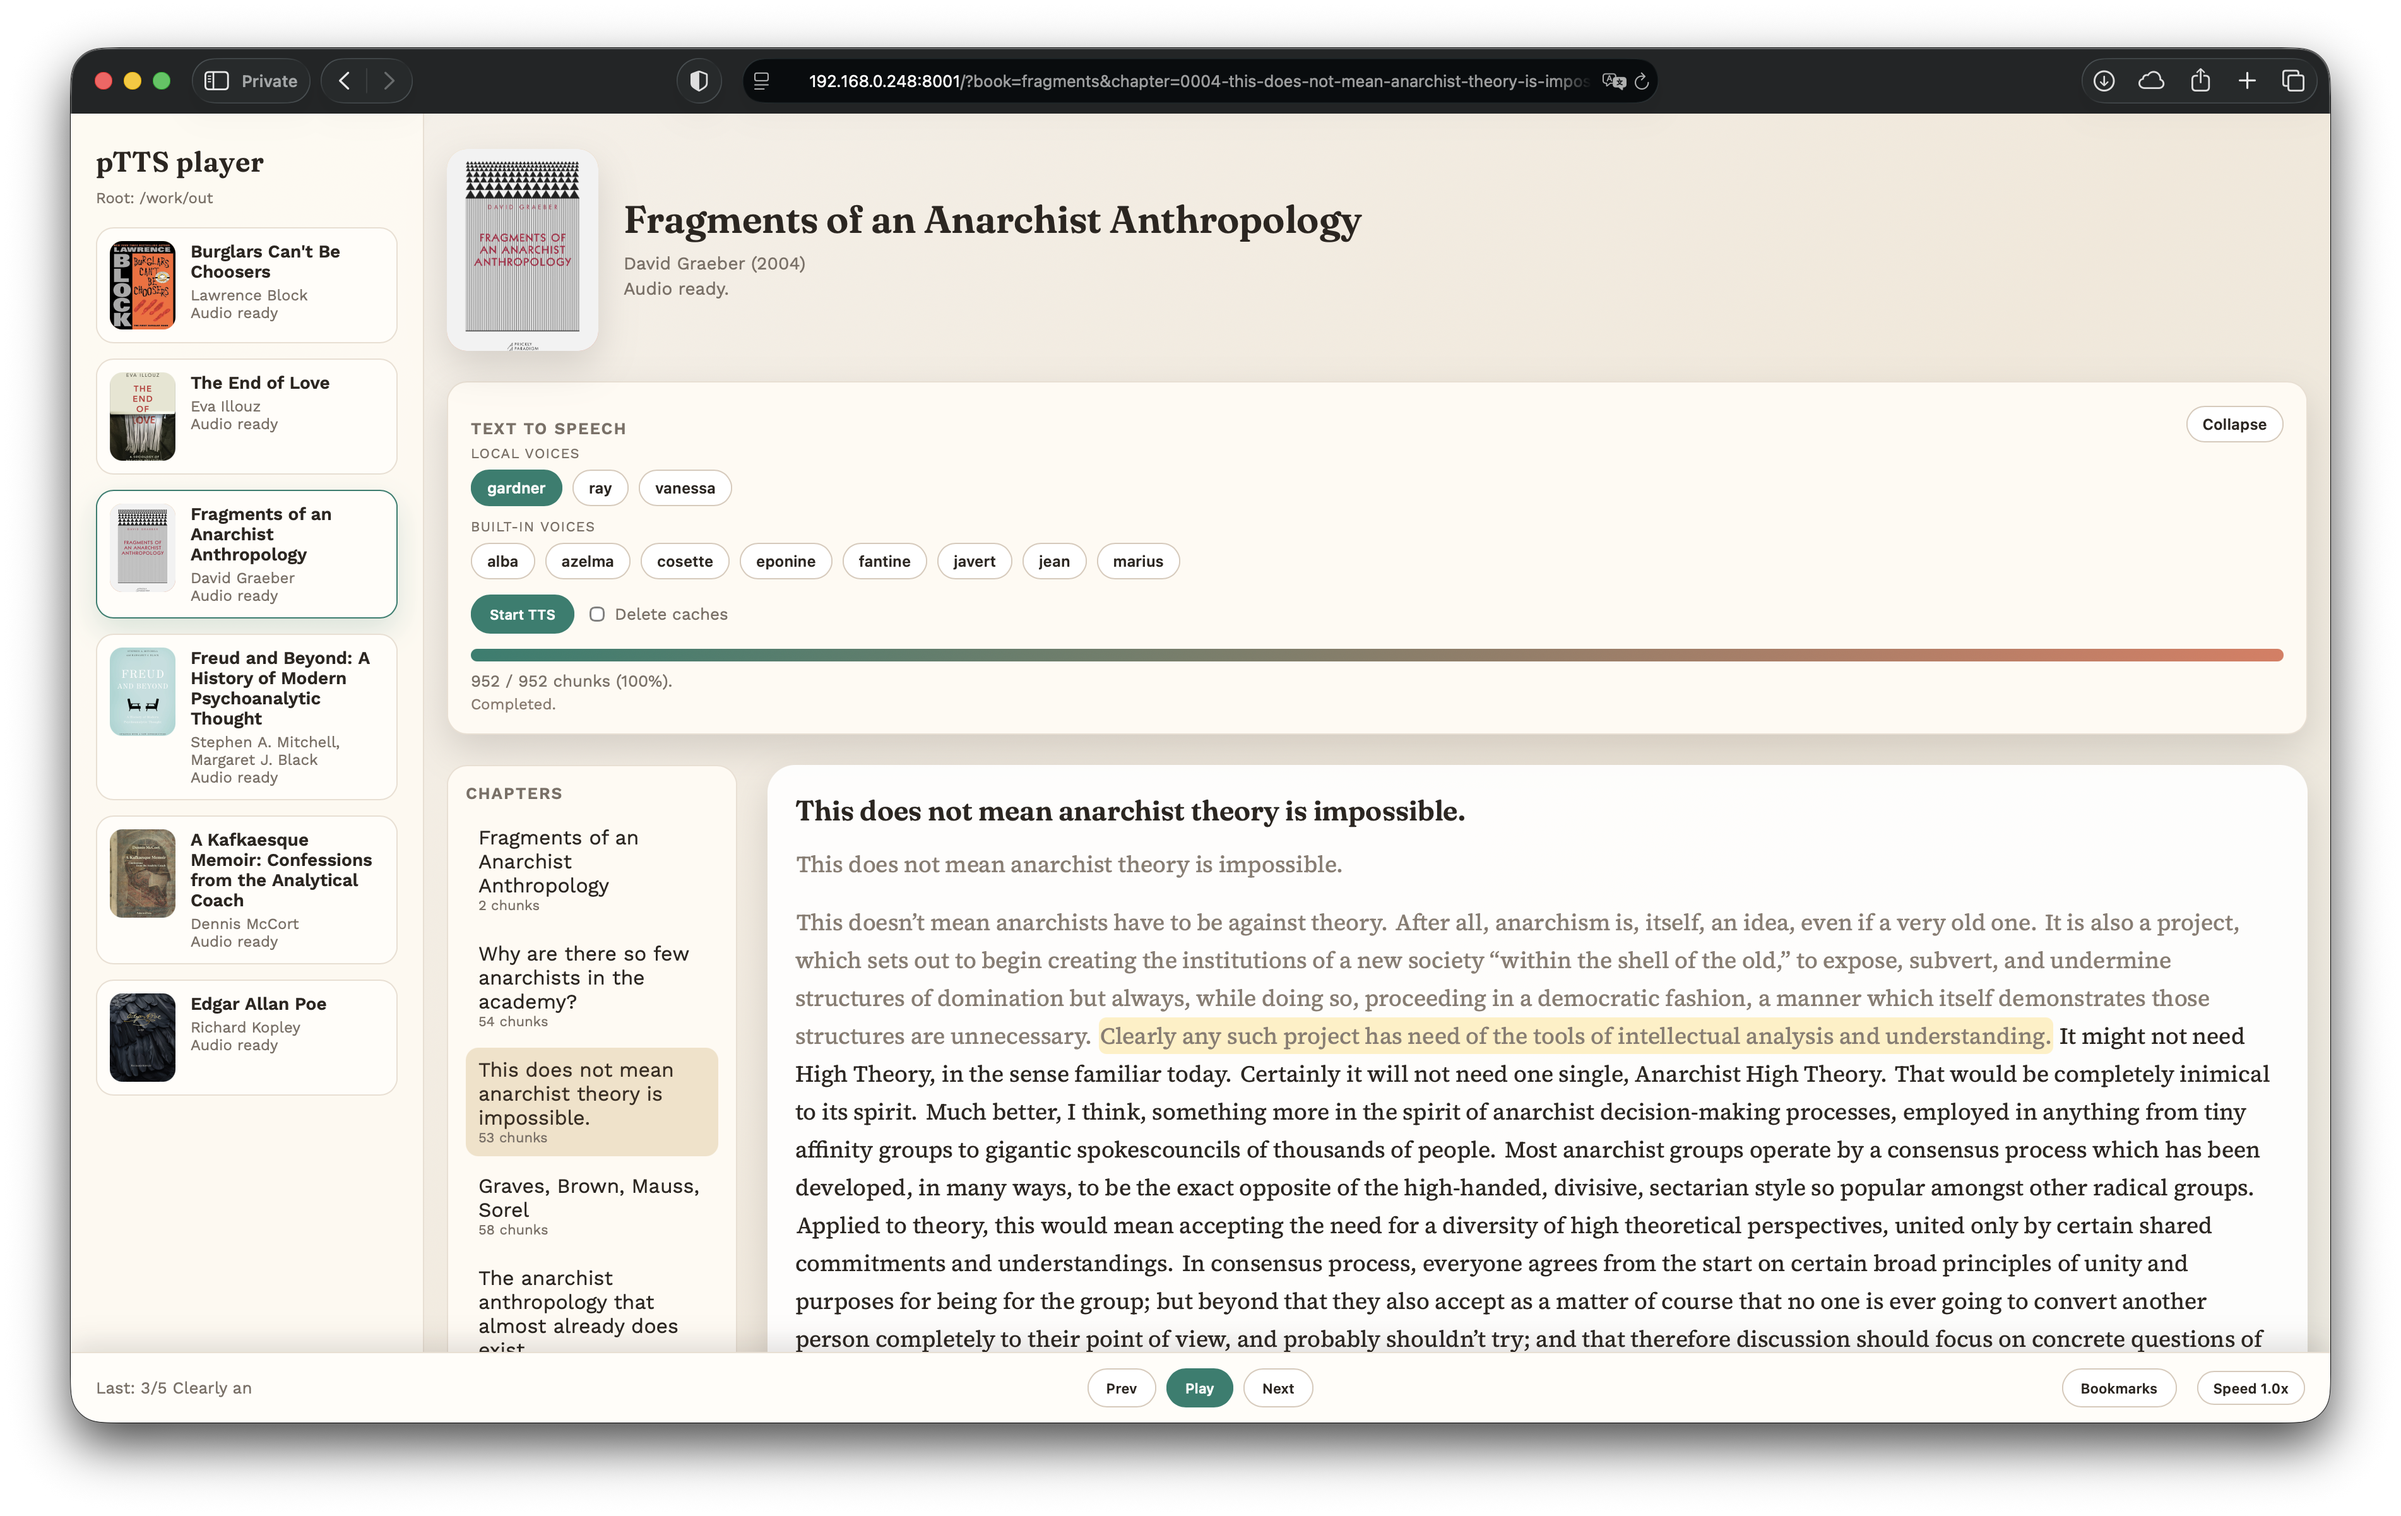
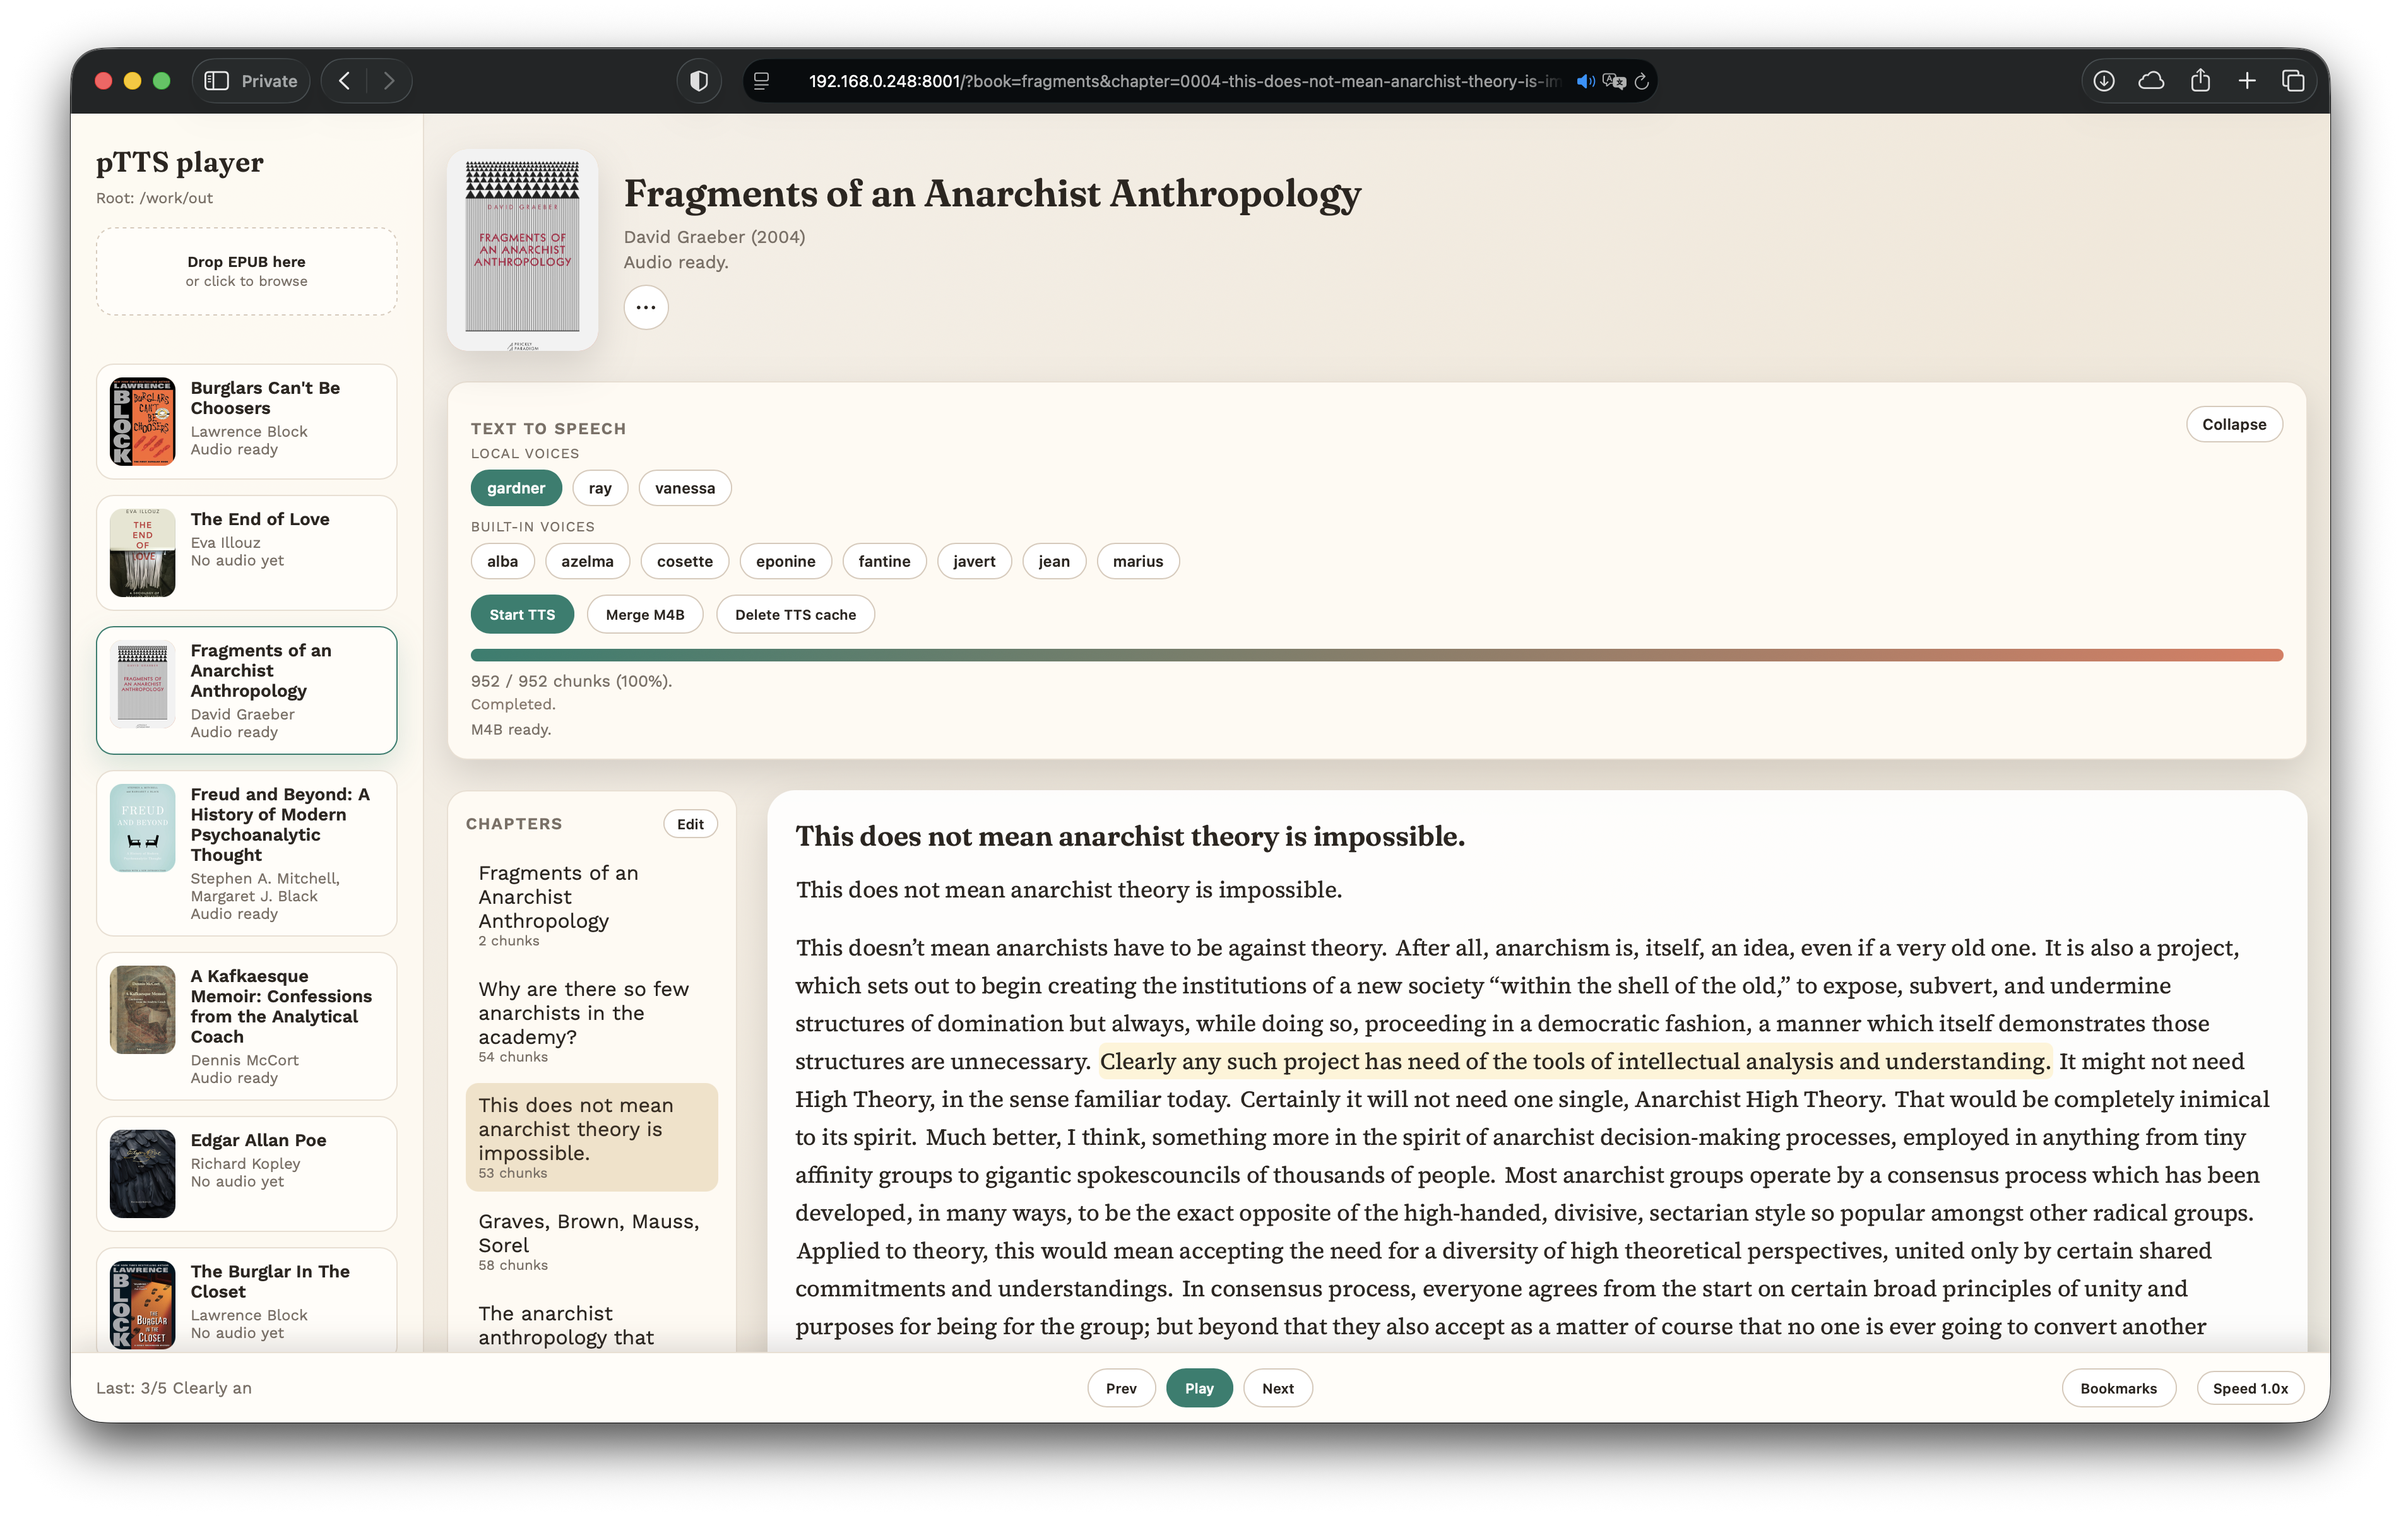
update: README

diff --git a/ptts/templates/player.html b/ptts/templates/player.html
@@ -18,6 +18,7 @@
         --highlight: #fff0c2;
         --shadow: 0 12px 30px rgba(32, 28, 24, 0.15);
         --radius: 16px;
+        --cover-thumb-height: 70px;
         --ui: "Work Sans", "Segoe UI", sans-serif;
         --read: "Source Serif 4", Georgia, serif;
         --title: "Fraunces", "Times New Roman", serif;
@@ -79,6 +80,10 @@
         background: #fffdf9;
         cursor: pointer;
         transition: border 0.2s ease, background 0.2s ease;
+        min-height: var(--cover-thumb-height);
+        display: flex;
+        flex-direction: column;
+        justify-content: center;
       }
 
       .upload-zone strong {
@@ -144,7 +149,7 @@
 
       .book-cover {
         width: 52px;
-        height: 70px;
+        height: var(--cover-thumb-height);
         border-radius: 10px;
         background: linear-gradient(150deg, #f2cc8f, #e07a5f);
         overflow: hidden;
